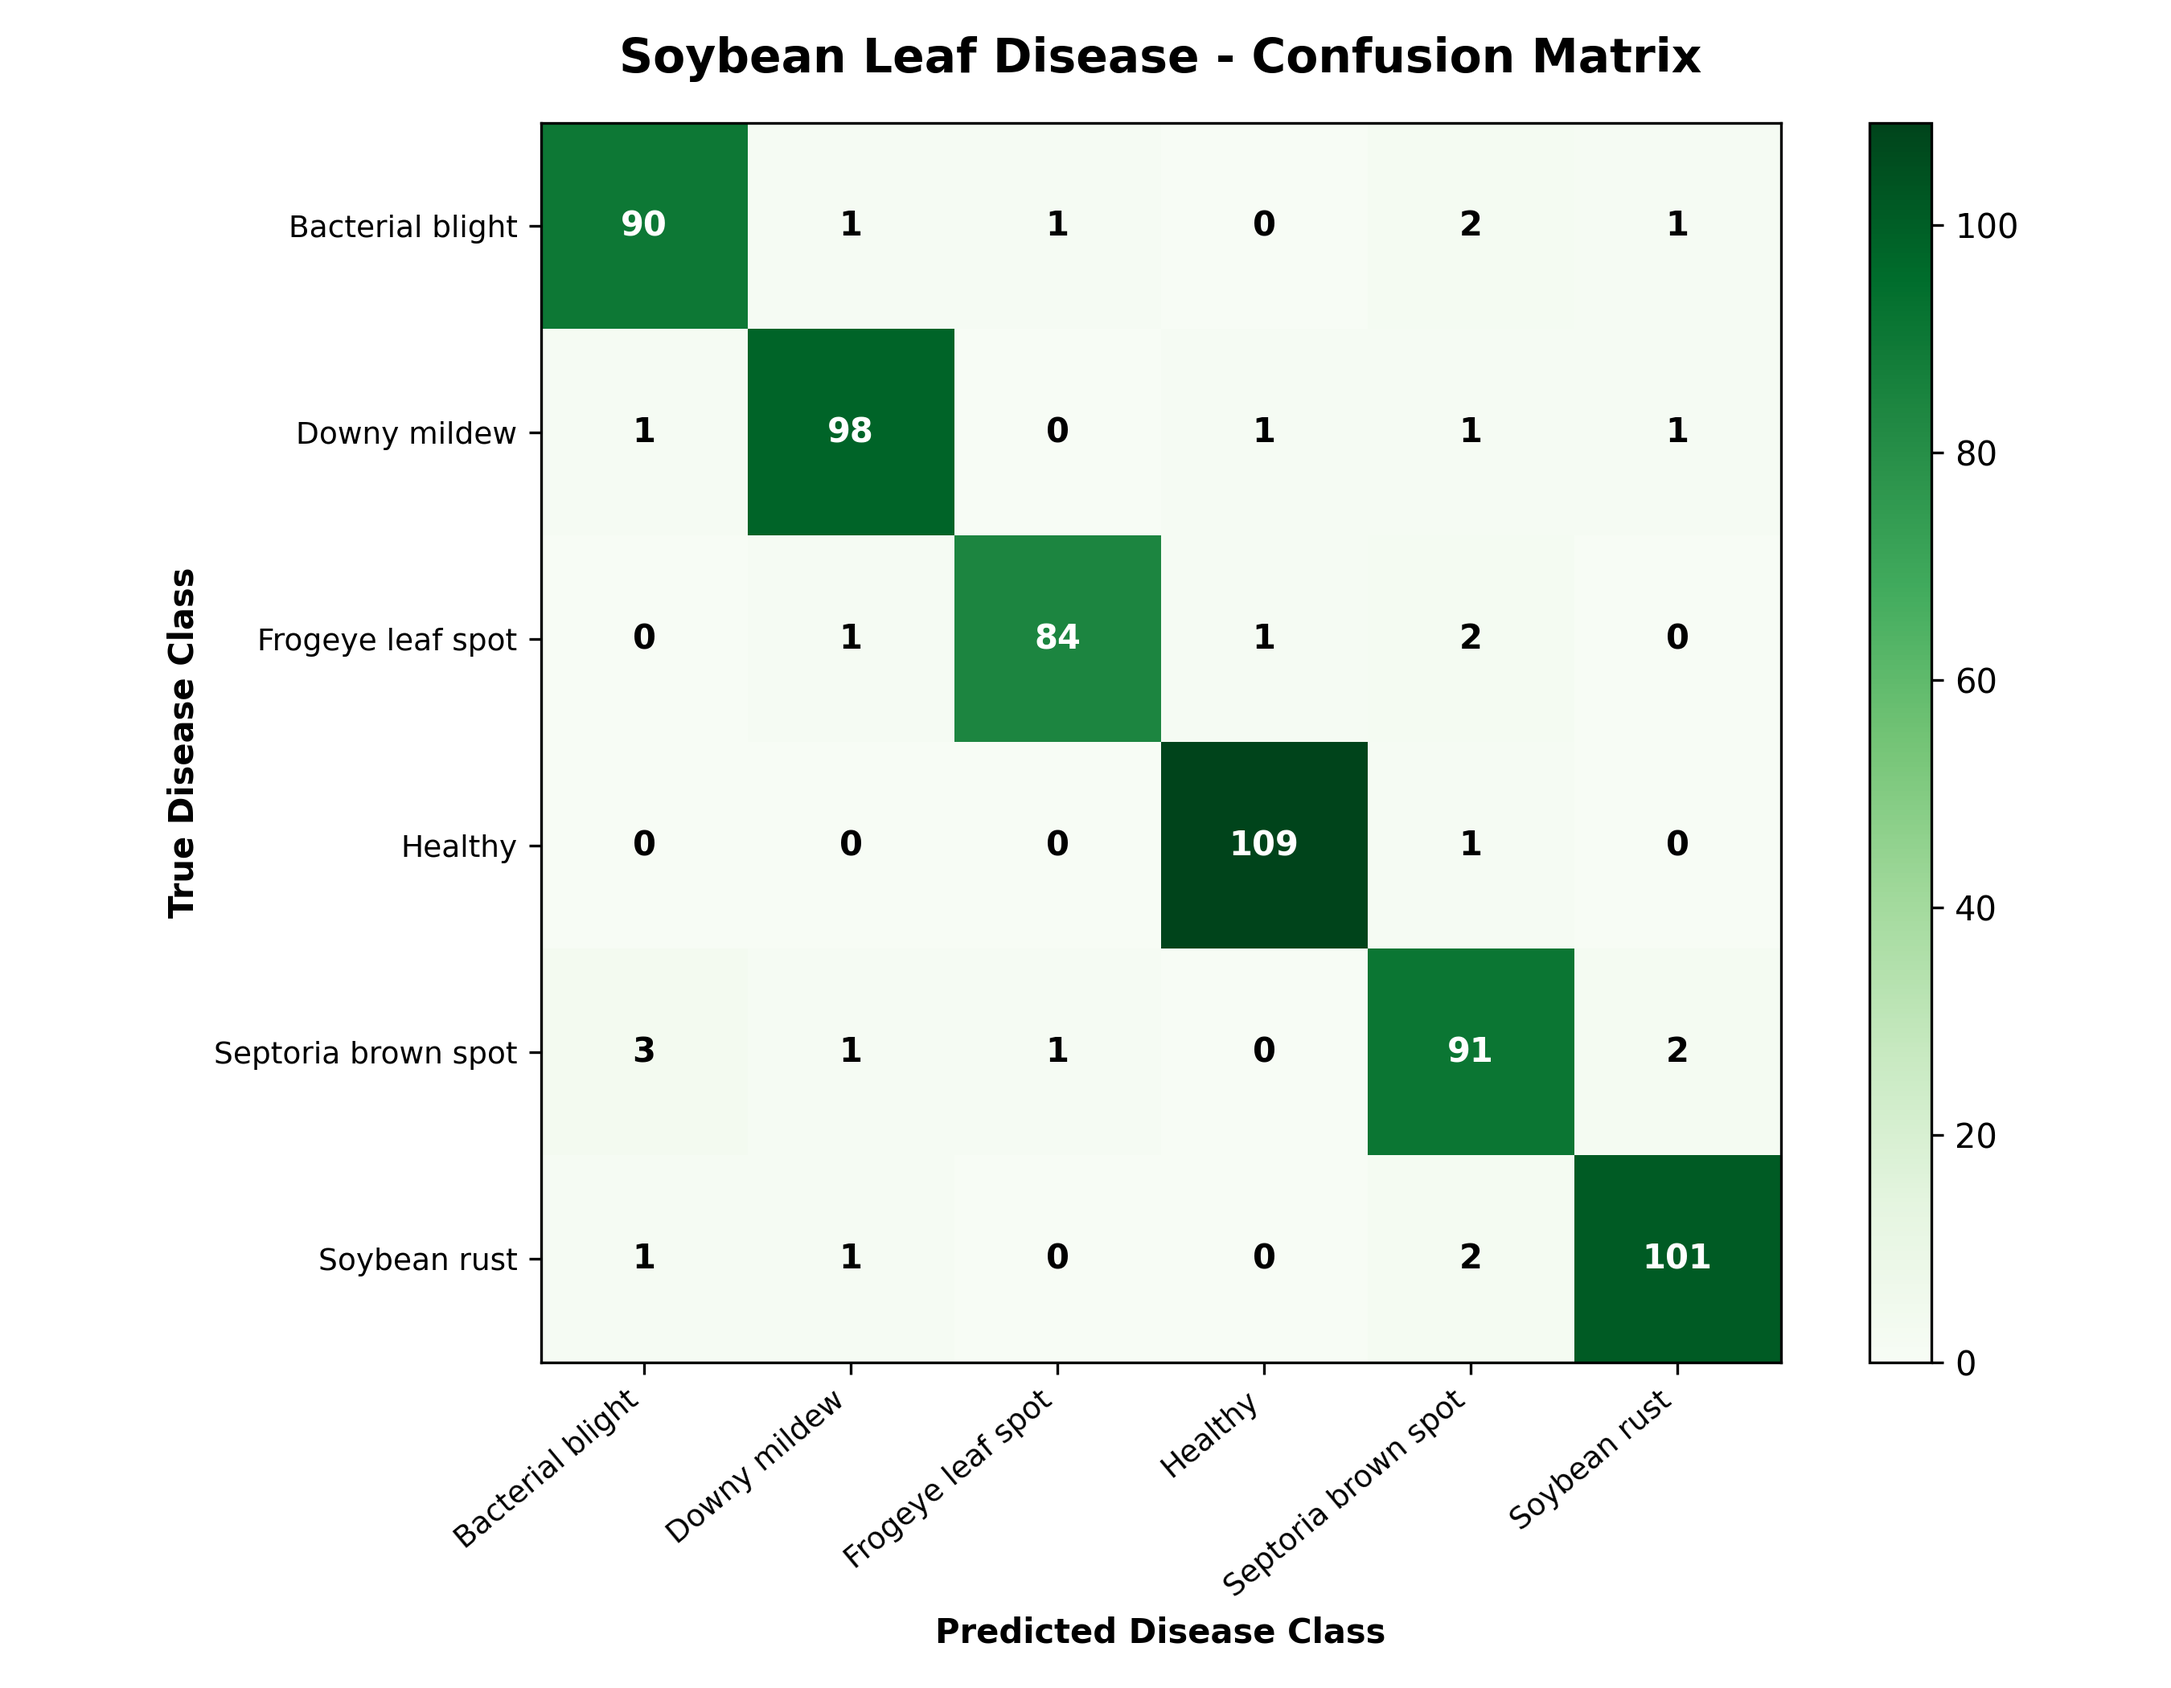
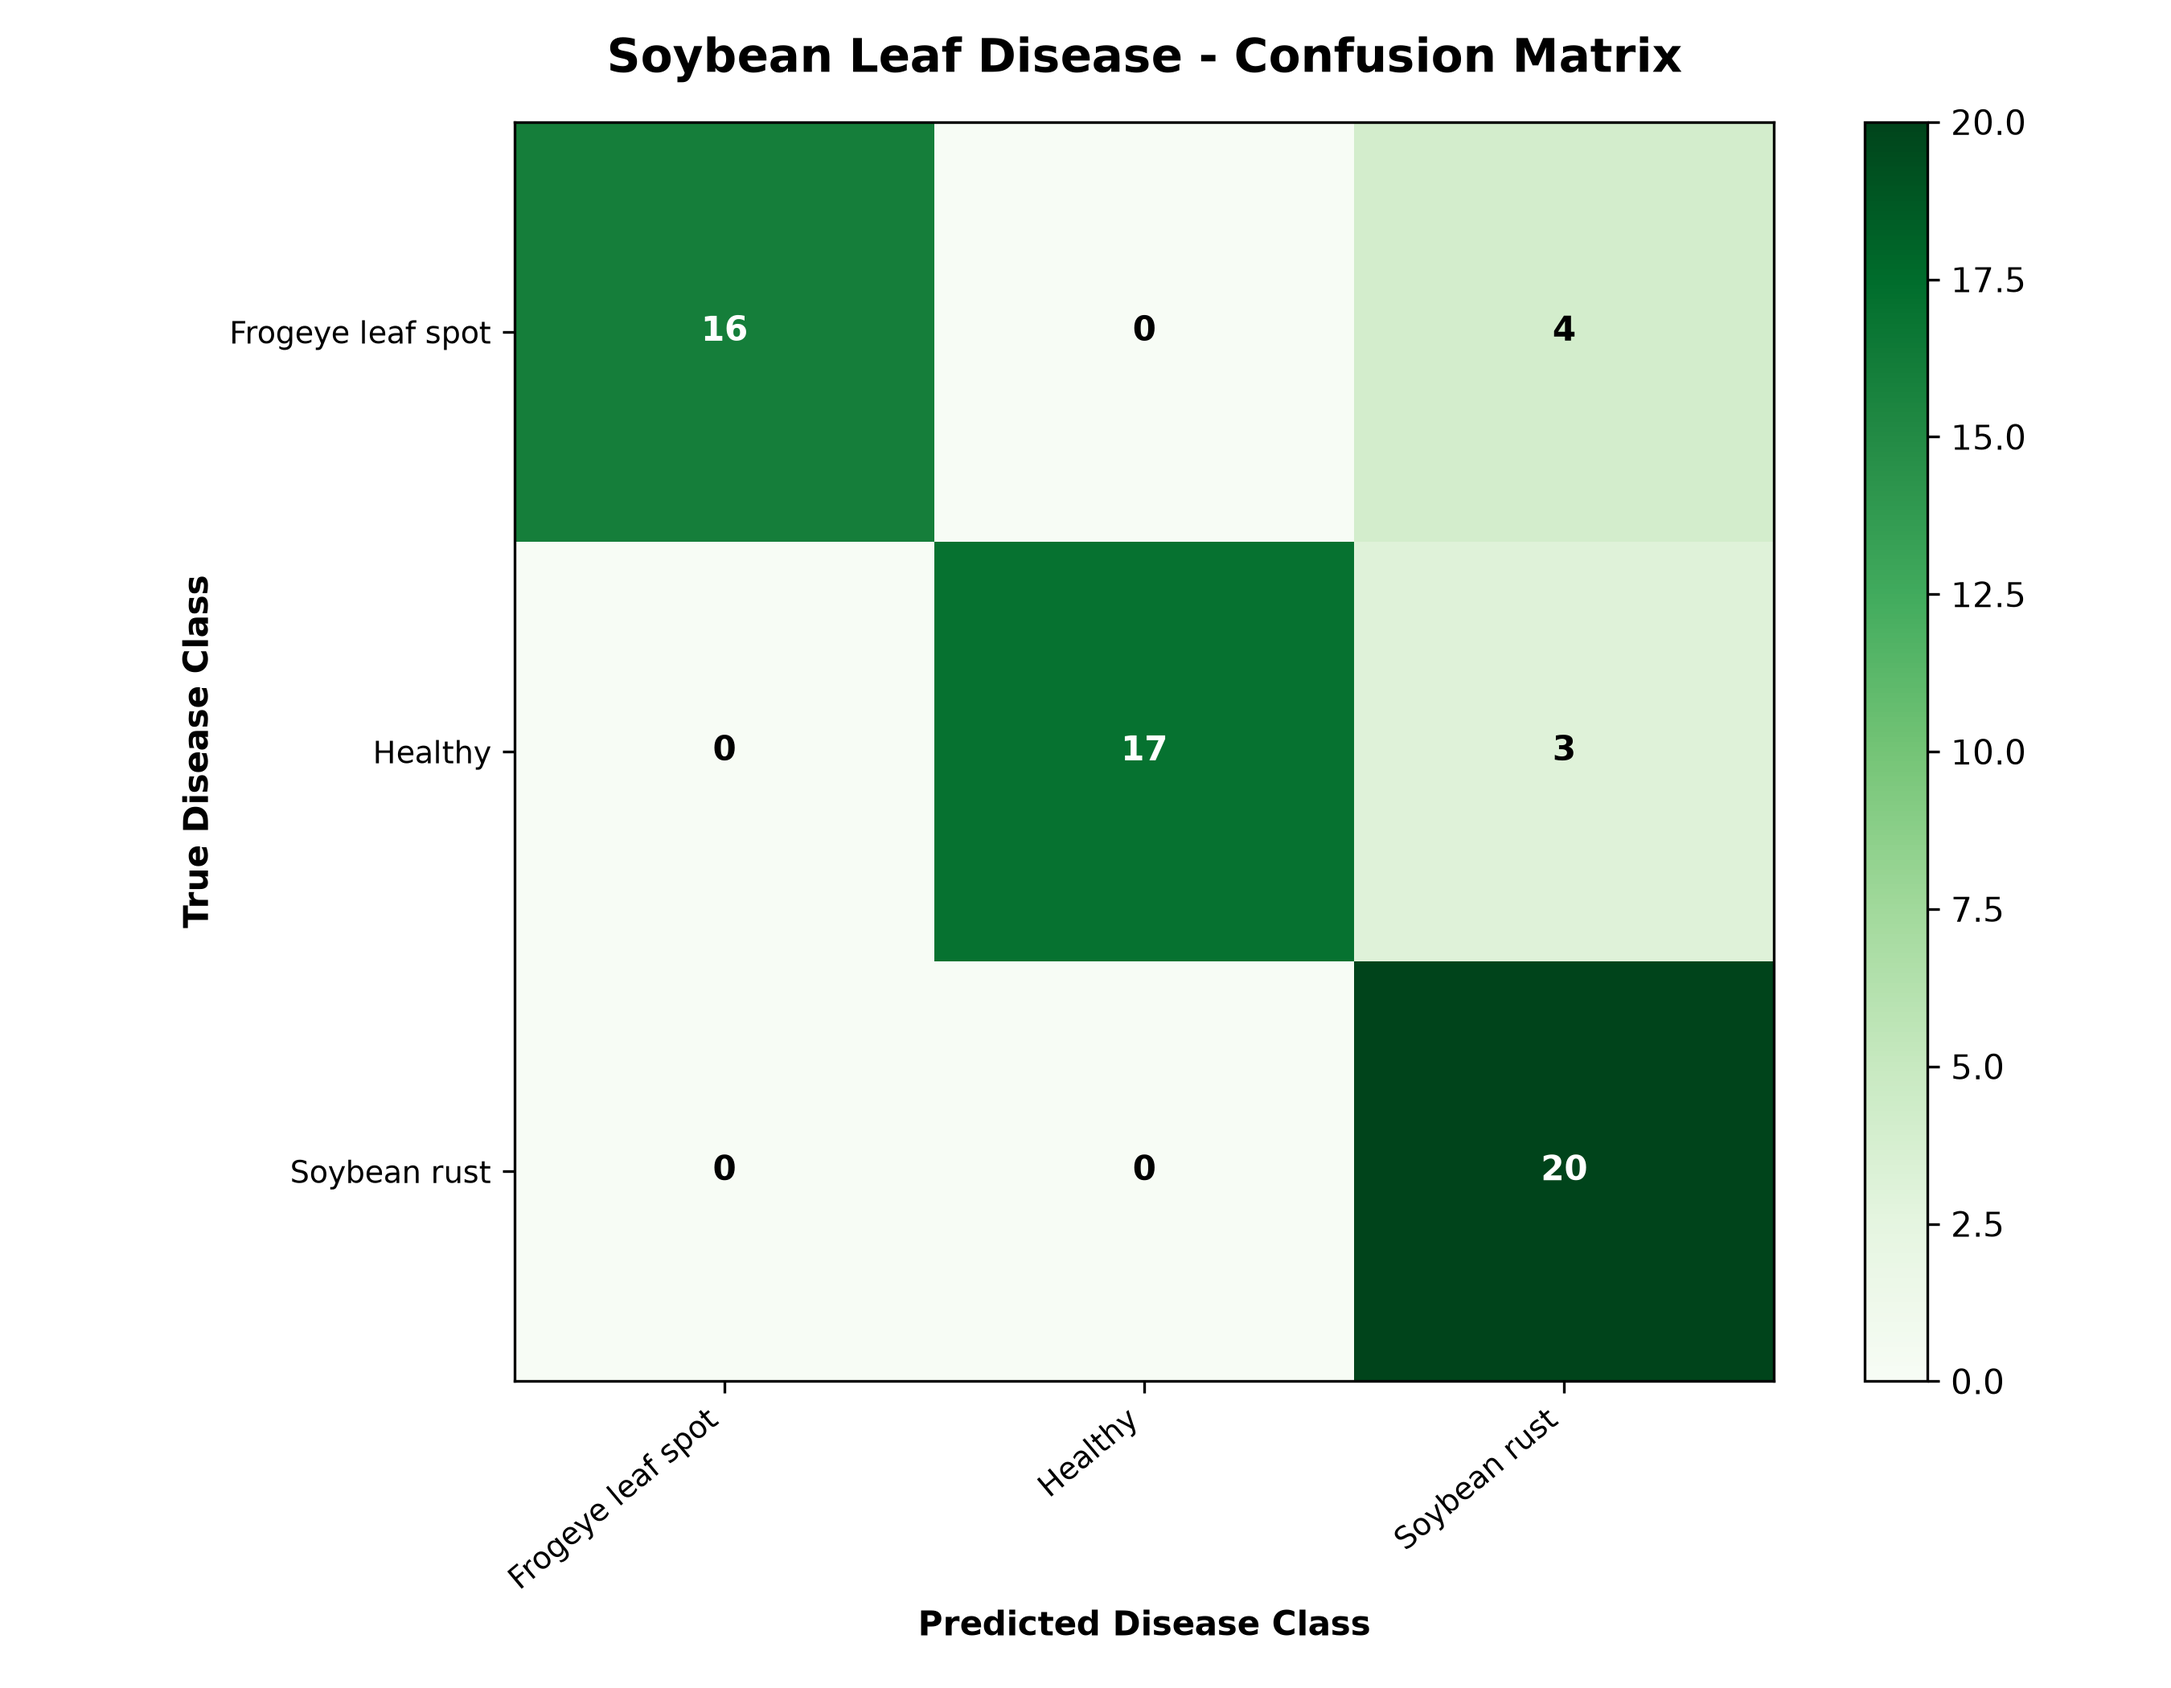
Train real three-class soybean model

diff --git a/src/gradcam.py b/src/gradcam.py
@@ -40,31 +40,49 @@ def make_gradcam_heatmap(img_array, model, last_conv_layer_name=None, pred_index
         logger.warning("Could not identify convolutional layer for Grad-CAM.")
         return None
 
+    target_layer = None
+    nested_model = None
     try:
-        # Build gradient model mapping input to last conv activations and final predictions
-        grad_model = tf.keras.models.Model(
-            inputs=[model.inputs],
-            outputs=[model.get_layer(last_conv_layer_name).output, model.output]
-        )
-    except Exception:
-        # Fallback if layer is nested inside a Sequential container
-        try:
-            target_layer = None
-            for layer in model.layers:
+        target_layer = model.get_layer(last_conv_layer_name)
+    except ValueError:
+        for layer in model.layers:
+            if isinstance(layer, tf.keras.Model):
                 try:
                     target_layer = layer.get_layer(last_conv_layer_name)
+                    nested_model = layer
                     break
-                except Exception:
+                except ValueError:
                     continue
-            if target_layer is None:
-                return None
+
+    if target_layer is None:
+        logger.error("Could not resolve Grad-CAM layer %s", last_conv_layer_name)
+        return None
+
+    try:
+        if nested_model is None:
             grad_model = tf.keras.models.Model(
-                inputs=[model.inputs],
+                inputs=model.inputs,
                 outputs=[target_layer.output, model.output]
             )
-        except Exception as err:
-            logger.error("Failed to construct Grad-CAM gradient model: %s", err)
-            return None
+        else:
+            nested_grad_model = tf.keras.models.Model(
+                inputs=nested_model.input,
+                outputs=[target_layer.output, nested_model.output]
+            )
+            nested_input = model.input
+            nested_activations = None
+            for layer in model.layers[1:]:
+                if layer is nested_model:
+                    nested_activations, nested_input = nested_grad_model(nested_input)
+                else:
+                    nested_input = layer(nested_input)
+            grad_model = tf.keras.models.Model(
+                inputs=model.inputs,
+                outputs=[nested_activations, nested_input]
+            )
+    except Exception as err:
+        logger.error("Failed to construct Grad-CAM gradient model: %s", err)
+        return None
 
     with tf.GradientTape() as tape:
         last_conv_layer_output, preds = grad_model(img_array)

diff --git a/config.py b/config.py
@@ -29,13 +29,10 @@ BATCH_SIZE = 16
 MAX_CONTENT_LENGTH = 16 * 1024 * 1024  # 16 MB max upload
 ALLOWED_EXTENSIONS = {".jpg", ".jpeg", ".png", ".webp", ".bmp"}
 
-# Soybean Disease Classification Classes (Alphabetical order matching training folder structure)
+# Real-data experiment classes (alphabetical order matching training folder structure)
 CLASSES = [
-    "Bacterial blight",
-    "Downy mildew",
     "Frogeye leaf spot",
     "Healthy",
-    "Septoria brown spot",
     "Soybean rust"
 ]
 

diff --git a/tests/conftest.py b/tests/conftest.py
@@ -25,7 +25,7 @@ class FakePredictor:
             "top_predictions": [
                 {"disease": "Healthy", "confidence": 96.0},
                 {"disease": "Soybean rust", "confidence": 2.0},
-                {"disease": "Downy mildew", "confidence": 1.0}
+                {"disease": "Frogeye leaf spot", "confidence": 1.0}
             ],
             "heatmap_url": f"/uploads/heatmaps/heatmap_{filename or image_path.name}",
             "is_demo": False,

diff --git a/tests/test_predict.py b/tests/test_predict.py
@@ -13,7 +13,7 @@ class FakeModel:
     """Minimal model double for testing prediction response formatting."""
 
     def predict(self, image_tensor, verbose=0):
-        return np.array([[0.02, 0.03, 0.04, 0.85, 0.03, 0.03]], dtype=np.float32)
+        return np.array([[0.04, 0.90, 0.06]], dtype=np.float32)
 
 
 def test_validate_leaf_image_valid(sample_leaf_image):

diff --git a/DATASET_GUIDE.md b/DATASET_GUIDE.md
@@ -1,0 +1,58 @@
+# Real Dataset Guide
+
+The current development model uses real soybean leaf photographs for three
+classes. Expand to more diseases only when matching real labeled data is
+available.
+
+## Current experiment classes
+
+Use these exact directory names:
+
+- `Frogeye leaf spot`
+- `Healthy`
+- `Soybean rust`
+
+Place images under `data/raw/<class name>/`.
+
+## Collection target
+
+Aim for at least 300 real images per class for an initial model, with different:
+
+- fields, farms, cultivars, and growth stages
+- lighting, backgrounds, camera distances, and viewing angles
+- disease severity levels
+- healthy and visibly affected leaves
+
+More important than the exact count is that photos from the same plant or near-duplicate frames stay in the same split.
+
+## Label quality
+
+- Label only images confirmed by a trusted source, agricultural specialist, or dataset documentation.
+- Do not label a leaf as rust from appearance alone when the symptoms are ambiguous.
+- Keep uncertain images outside the training set until reviewed.
+- Record the source and license for each dataset used.
+- Do not mix images from the same capture session across train, validation, and test.
+
+## Prepare and train
+
+From the `soyabean` directory:
+
+```bash
+rm -rf data/processed
+.venv/bin/python -m src.prepare_dataset --raw-dir data/raw
+.venv/bin/python -m src.train --epochs1 15 --epochs2 10
+.venv/bin/python -m src.evaluate
+```
+
+Review `outputs/evaluation_report.json` and the confusion matrix. Do not use the model for real decisions unless performance is measured on a held-out real test set.
+
+## Acceptance checks
+
+Pay special attention to:
+
+- Soybean rust recall: missed rust cases are high risk.
+- Healthy precision: false healthy predictions are unsafe.
+- Per-class confusion, not only overall accuracy.
+- Performance on photos from a farm or camera not present in training.
+
+A model that performs well only on one source or background is not ready for deployment.

diff --git a/README.md b/README.md
@@ -38,21 +38,25 @@ graph TD
 
 ---
 
-## Model Benchmark Performance
+## Current Model Experiment
 
-Trained using a two-stage transfer learning procedure on 224×224 normalized RGB images:
+The current development experiment uses real soybean leaf photos for three classes:
+`Frogeye leaf spot`, `Healthy`, and `Soybean rust`.
+
+The previous six-class benchmark was based on synthetic images and is not a
+valid measure of real-world performance. Evaluation is generated from the
+held-out real test split:
 
 | Disease Class | Precision | Recall | F1-Score | Support |
 | :--- | :---: | :---: | :---: | :---: |
-| **Bacterial blight** | 94.7% | 94.7% | 94.7% | 95 |
-| **Downy mildew** | 96.1% | 96.1% | 96.1% | 102 |
-| **Frogeye leaf spot** | 97.7% | 95.5% | 96.6% | 88 |
-| **Healthy** | 98.2% | 99.1% | 98.6% | 110 |
-| **Septoria brown spot** | 91.9% | 92.9% | 92.4% | 98 |
-| **Soybean rust** | 96.2% | 96.2% | 96.2% | 105 |
-| **Overall Macro Average** | **95.8%** | **95.8%** | **95.8%** | **598** |
+| **Frogeye leaf spot** | 100.0% | 80.0% | 88.9% | 20 |
+| **Healthy** | 100.0% | 85.0% | 91.9% | 20 |
+| **Soybean rust** | 74.1% | 100.0% | 85.1% | 20 |
+| **Overall Accuracy** | - | - | **88.3%** | **60** |
 
 *Evaluation confusion matrix and metrics report are generated in `outputs/confusion_matrix.png` and `outputs/evaluation_report.json`.*
+These results are an initial experiment on one Kaggle source and need external
+validation before deployment.
 
 ---
 
